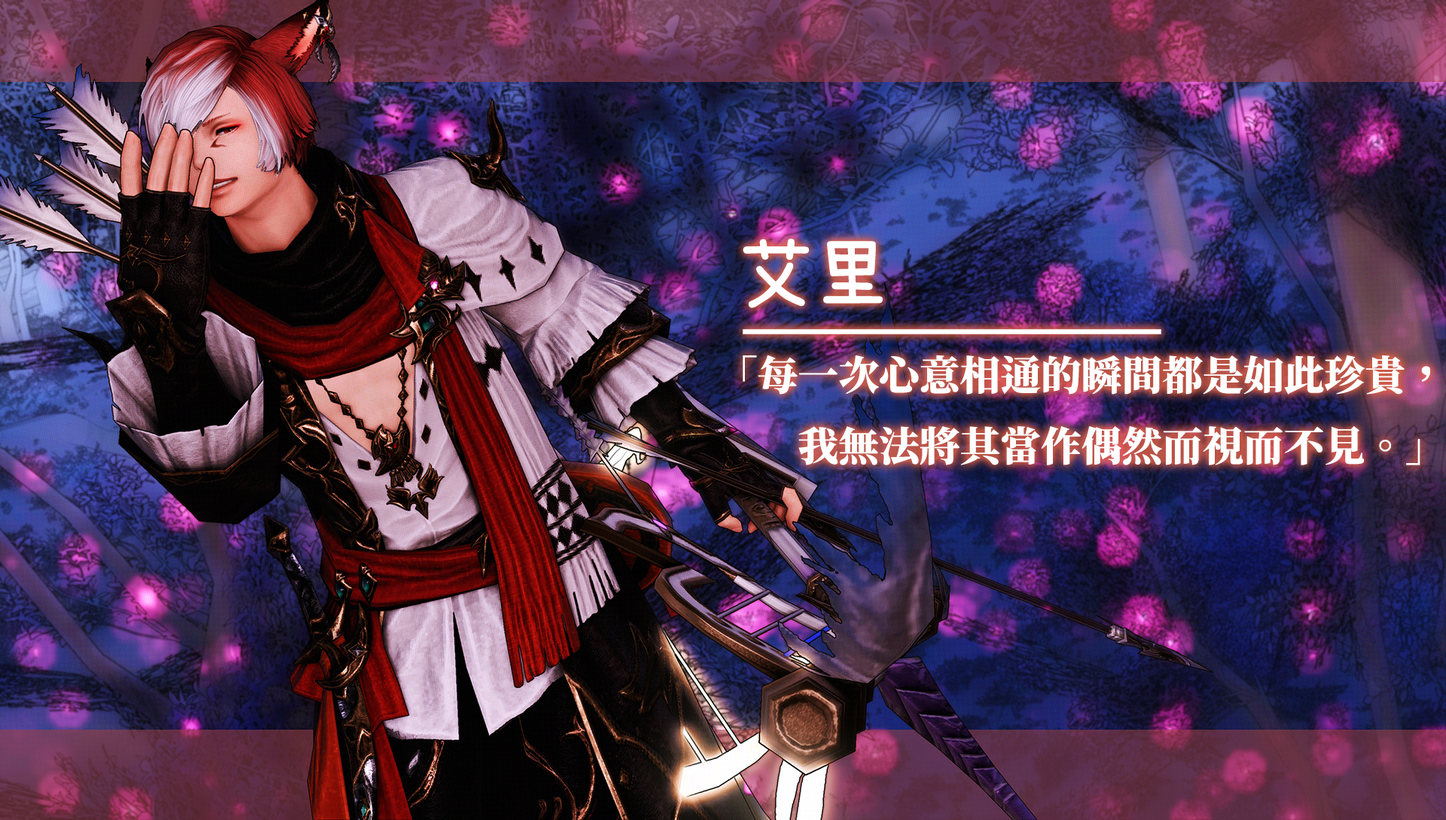
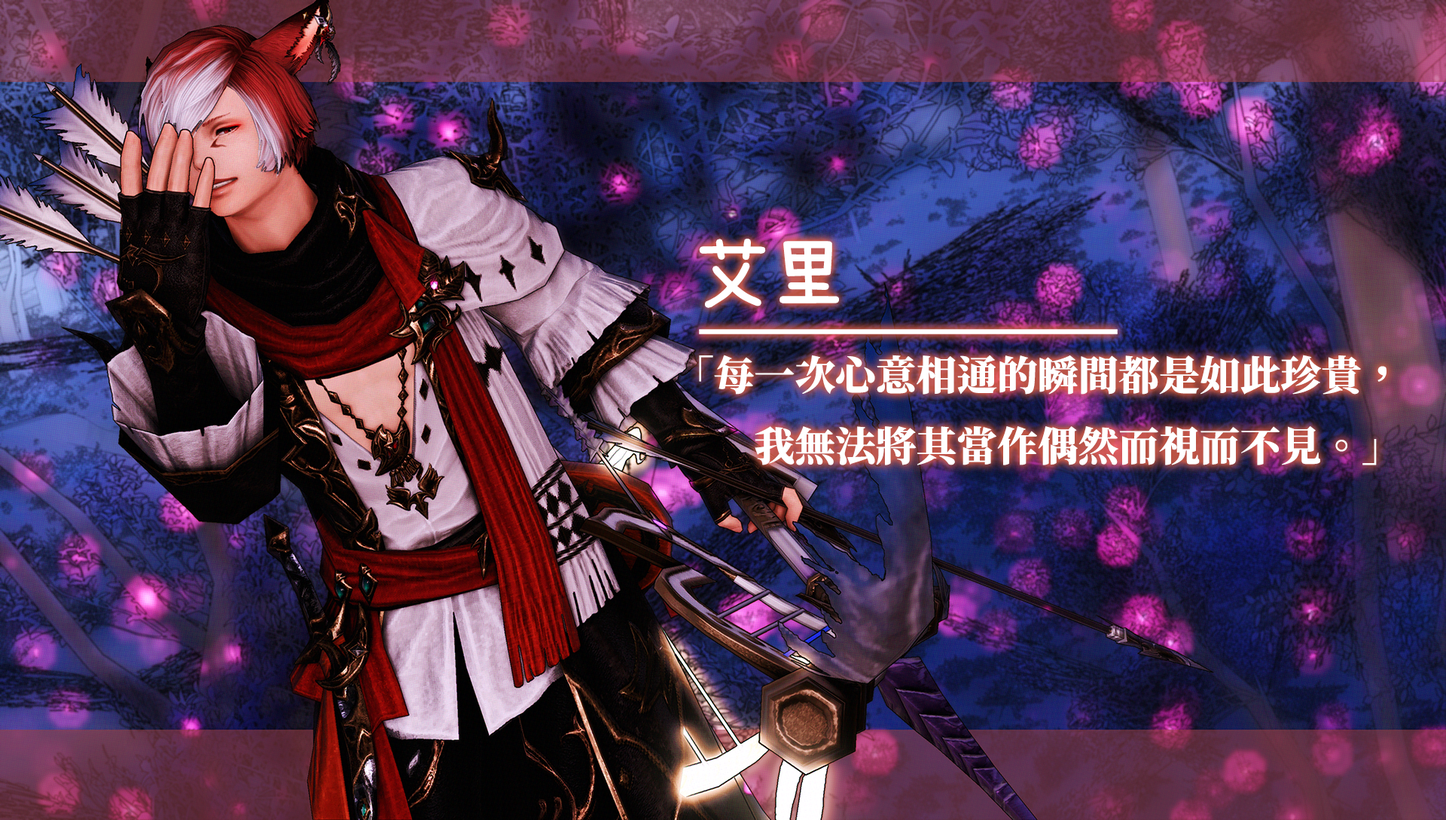
更新資訊

Changed region(s): [[0.4688, 0.281, 1.0, 0.5932]]

diff --git a/script.js b/script.js
@@ -36,7 +36,7 @@ const staffDatabase = [
         profileImage: 'Image/艾里_profile.png',
         race: 'miqote', height: '160cm', tags: ['溫柔', '紳士', '神秘'],
         motto: '「每一次心意相通的瞬間都是如此珍貴，<br>我無法將其當作偶然而視而不見。」',
-        story: ' 雲遊四海的吟遊詩人，流連於不同男人的溫柔鄉之中。\n\n廣大的心胸如星海一般遼闊，是爲每一位戀人都能擁有一顆專屬的星星。 \n\n透過將每一段緣份寫成詩歌以獲得更強大的力量，並將每一個令人銘記的瞬間永恆的傳唱下去。 \n\n像風一樣隨遇而安、也像風一樣無法被抓住，沒有真正的屬於誰、卻也可以同時屬於任何人，是女士最可靠的情感支柱、是男士心頭上的一點硃砂痣。 \n\n對貓魅族男性有著不可抗拒的迷戀，對其他種族男性則是友善的喜愛。 \n\n為了能夠再次踏上旅行而來到NOCTIS打工，聽聞店長是貓男又更不想離開了。 \n\n討厭任何不紳士的行為，路見不平會拔弓嚴逞。',
+        story: ' 雲遊四海的吟遊詩人，流連於不同男人的溫柔鄉之中。\n\n廣大的心胸如星海一般遼闊，是爲每一位戀人都能擁有一顆專屬的星星。 \n\n透過將每一段緣份寫成詩歌以獲得更強大的力量，並將每一個令人銘記的瞬間永恆的傳唱下去。 \n\n像風一樣隨遇而安、也像風一樣無法被抓住，沒有真正的屬於誰、卻也可以同時屬於任何人，是女士最可靠的情感支柱、是男士心頭上的一點硃砂痣。 \n\n對貓魅族男性有著不可抗拒的迷戀，對其他種族男性則是友善的喜愛。 \n\n為了能夠再次踏上旅行而來到NOCTIS打工，聽聞店長是貓男又更不想離開了。 \n\n討厭任何不紳士的行為，路見不平會拔弓嚴懲。',
         rpStyle: '鏡像', sexualPref: 'Male', rolePref: 'Top', filterRoles: ['TOP'],
         kinks: 'N/A', limits: '全裸、排泄、非人、血腥暴力、言詞羞辱'
     },
@@ -153,7 +153,7 @@ const staffDatabase = [
         kinks: '胸腰癖好、支配、言語羞辱、感官刺激', limits: '不接待魯加族的客人、血腥獵奇、排泄物、客人自虐 '
     },
     { 
-        id: 'elenos', category: 'host', image: 'Image/伊萊.png', serviceType: 'midnight', name: '伊萊諾斯',
+        id: 'elenos', category: 'host', image: 'Image/伊萊.png', serviceType: 'standard', name: '伊萊諾斯',
         profileImage: 'Image/伊萊_profile.png',
         race: 'viera', height: '188.5cm', tags: ['斯文', '溫柔', '悶騷', '表裡不一', '佔有慾強'],
         motto: ' 「哪一面的我才是真正的我，這問題有很重要嗎？」', rpStyle: '鏡像', sexualPref: 'Any', rolePref: 'Switch, Soft Dom', filterRoles: ['SWITCH'],
